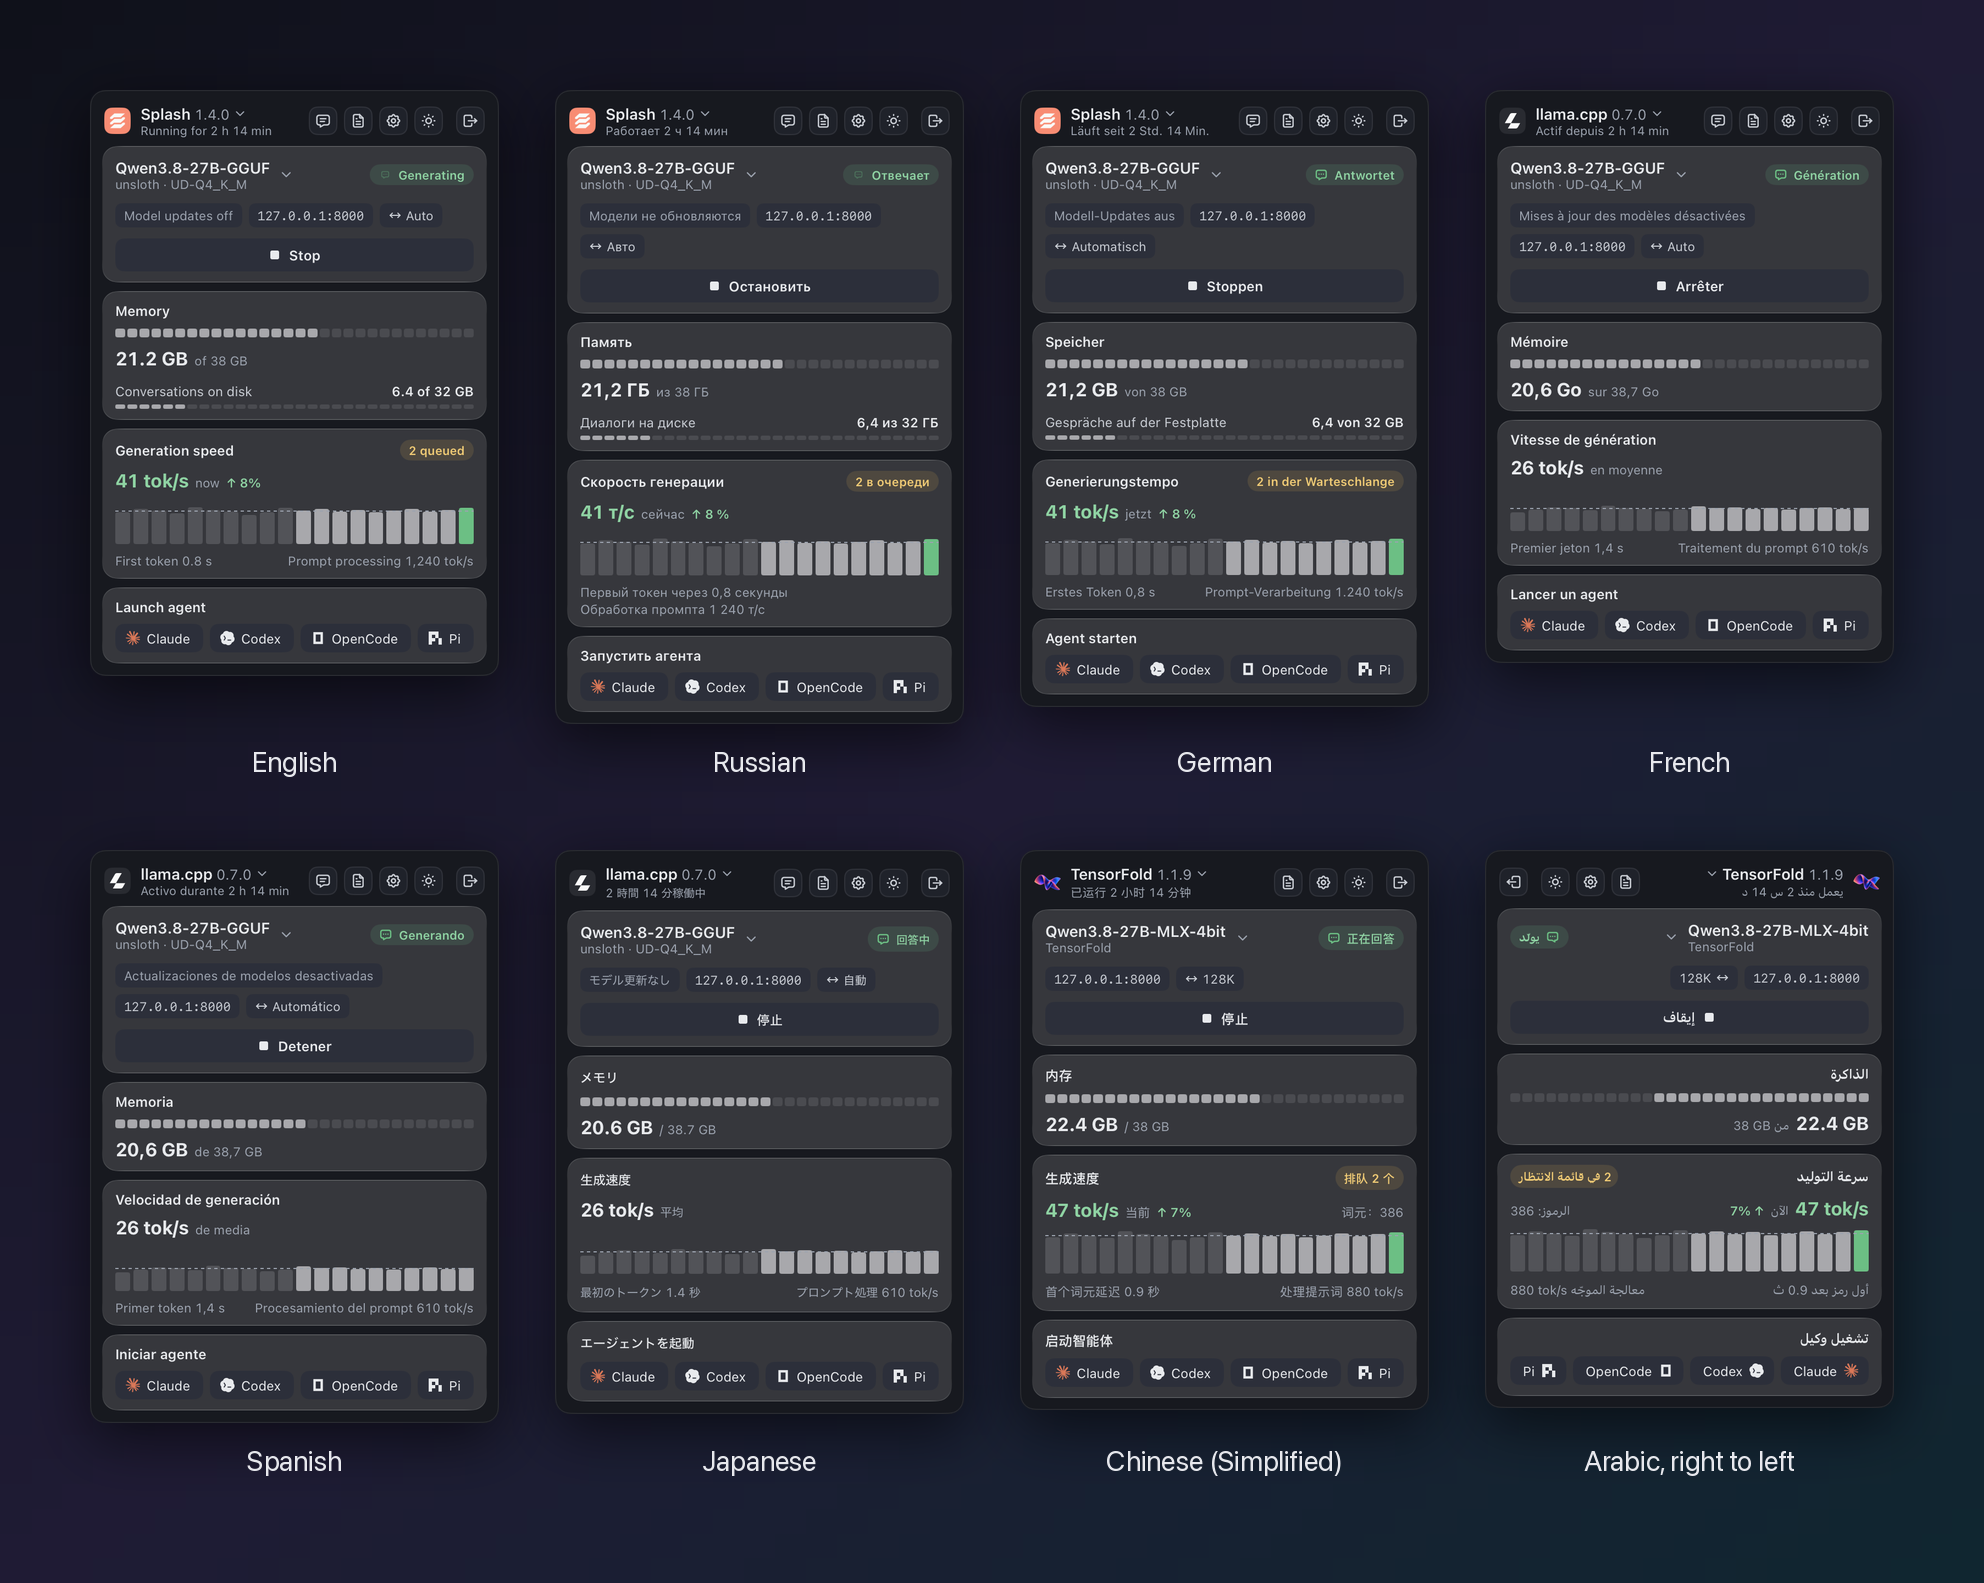
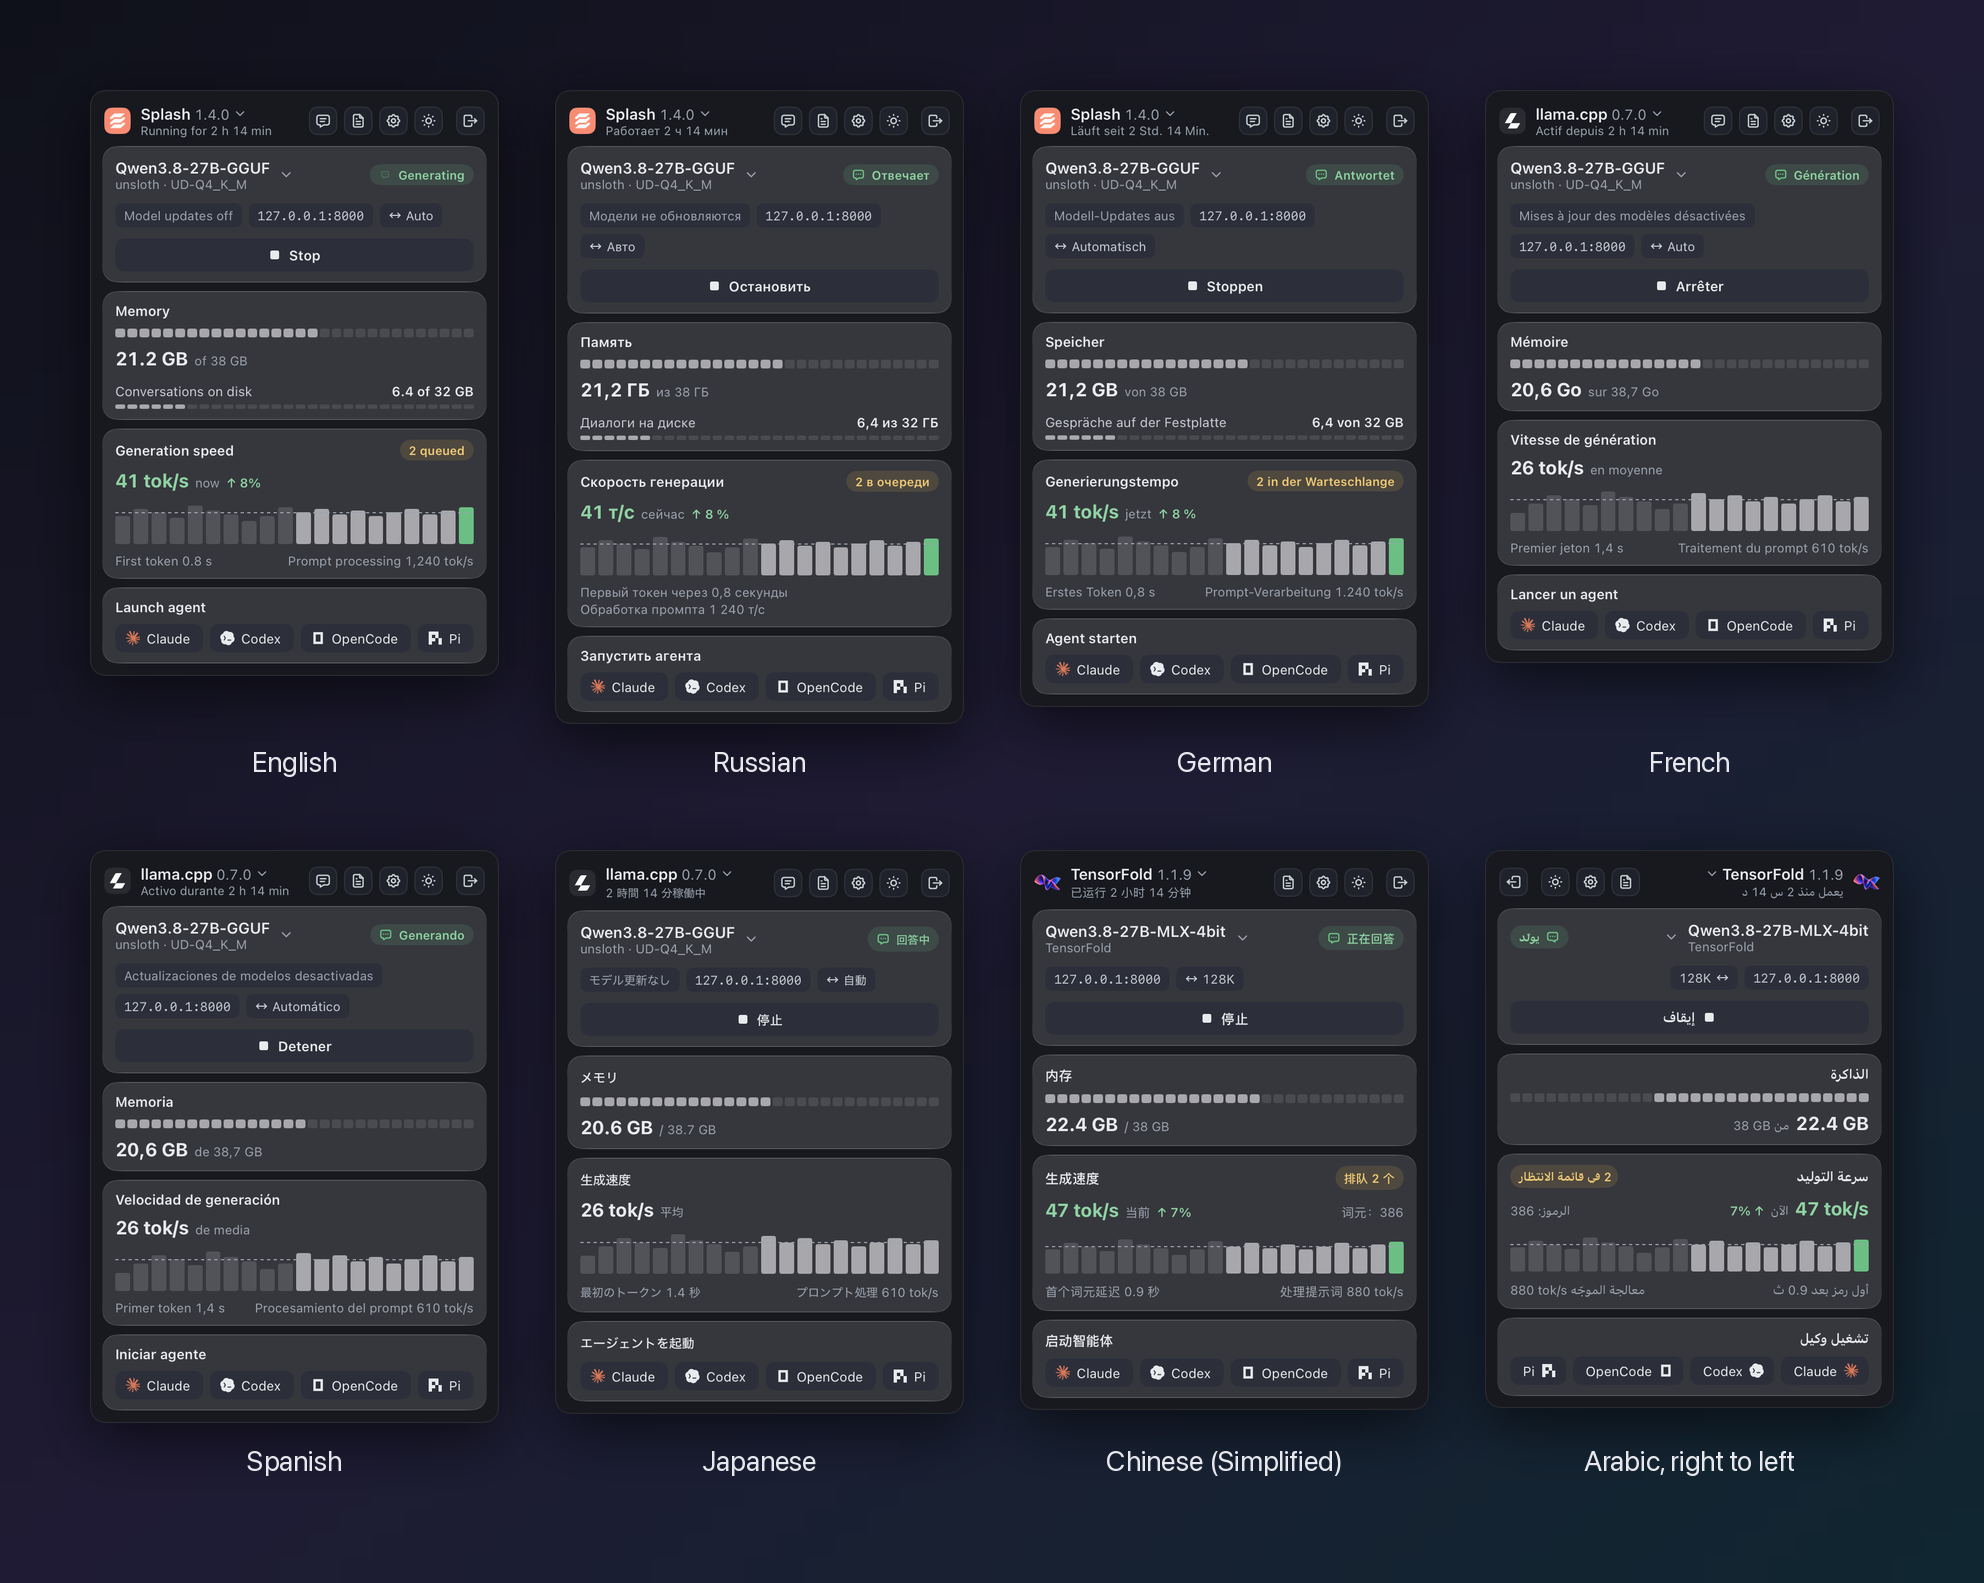
Speed chart: start below the slowest request
The chart ran from zero to at least 50 tok/s, so requests of 30 and
45 tok/s stood as bars of nearly one height. It now runs from below the
slowest bar to just above the fastest, in multiples of 5 tok/s and over
at least half the top speed, so close speeds differ at a glance and one
speed does not read as swings. Bars and the average line share the
range, which glides on the live speed's spring.

The 0.3.0 notes say how to update from 0.1.0: Homebrew skips casks with
auto_updates in a plain brew upgrade, so it needs --greedy. The README's
release section says the same. The demo and screenshots show the new
scale.

diff --git a/internal/panel/speed.go b/internal/panel/speed.go
@@ -190,17 +190,24 @@ func (p *Panel) tokenCount(c *ui.Context, f *frame, n int64, rate float64) int64
 	return int64(p.tokShown)
 }
 
-// chartTop is the speed the full chart height stands for: the mockup's 50
-// tok/s, raised in steps of 10 for faster engines.
-func chartTop(series []float64) float64 {
-	top := 0.0
+// chartRange is the speeds the chart's bottom and top stand for. The
+// chart starts below the slowest bar, not at zero, so that requests of
+// close speeds differ at a glance: of bars from 30 to 45 tok/s, the
+// slowest stands at a third of the height. The range spans at least half
+// the top speed, so that requests of about one speed do not read as wild
+// swings; both ends are multiples of 5 tok/s, so they hold still while
+// the bars change a little.
+func chartRange(series []float64) (lo, hi float64) {
+	if len(series) == 0 {
+		return 0, 50
+	}
+	lo, hi = series[0], series[0]
 	for _, x := range series {
-		top = max(top, x)
+		lo, hi = min(lo, x), max(hi, x)
 	}
-	if top <= 50 {
-		return 50
-	}
-	return math.Ceil(top*1.2/10) * 10
+	hi = max(5, math.Ceil(hi*1.05/5)*5)
+	lo = min(lo-(hi-lo)/2, hi/2)
+	return max(0, math.Floor(lo/5)*5), hi
 }
 
 // chart is the 20-bar speed chart, with a dashed line at avg (none when
@@ -208,9 +215,18 @@ func chartTop(series []float64) float64 {
 func (p *Panel) chart(c *ui.Context, f *frame, series []float64, current int, dim bool, avg float64, barText func(int) string) {
 	t, m := f.pal, f.m
 	n := len(series)
-	top := chartTop(series)
 	hover := -1
-	group := ui.Row(c).Direction(ui.LeftToRight).Height(40).Gap(3).AlignItems(ui.End).Role(ui.RoleGroup)
+	group := ui.Row(c).Key("speed-chart").Direction(ui.LeftToRight).Height(40).Gap(3).AlignItems(ui.End).Role(ui.RoleGroup)
+	// The range glides as the live bar does, so a new slowest or fastest
+	// request rescales the bars smoothly.
+	lo, hi := chartRange(series)
+	lo = float64(group.Spring("lo", float32(lo), liveSpring))
+	hi = float64(group.Spring("hi", float32(hi), liveSpring))
+	// height is how high the bar of speed x stands, from 2 DIP (seen)
+	// to the chart's 40.
+	height := func(x float64) float32 {
+		return min(40, max(2, float32(math.Round((x-lo)/(hi-lo)*100))/100*40))
+	}
 	if n > 0 {
 		lo, hi := series[0], series[0]
 		for _, x := range series {
@@ -220,7 +236,7 @@ func (p *Panel) chart(c *ui.Context, f *frame, series []float64, current int, di
 	}
 	if avg > 0 {
 		// Over the bars, so that each reads above or below the average.
-		ah := float32(math.Round(avg/top*100)) / 100 * 40
+		ah := height(avg)
 		line := t.muted
 		group.DrawOver(func(pt *ui.Painter, r ui.Rect) {
 			y := r.Y + r.H - ah
@@ -238,7 +254,7 @@ func (p *Panel) chart(c *ui.Context, f *frame, series []float64, current int, di
 			ui.Box(c).Key(-1 - i).Grow(1).Basis(0).Height(40)
 		}
 		for i, x := range series {
-			h := float32(math.Round(x/top*100)) / 100 * 40
+			h := height(x)
 			bg := t.barLo
 			if !dim && i >= n-10 {
 				bg = t.barHi
@@ -263,9 +279,6 @@ func (p *Panel) chart(c *ui.Context, f *frame, series []float64, current int, di
 				if i != current {
 					bg = t.strong
 				}
-			}
-			if i == current {
-				h = max(h, 2) // seen before the first speed comes
 			}
 			cell.Children(func() {
 				ui.Box(c).Height(max(h, 0)).Radius(2).Background(bg)

diff --git a/internal/panel/palette_test.go b/internal/panel/palette_test.go
@@ -44,3 +44,24 @@ func TestChartBarsContrast(t *testing.T) {
 		t.Error("the recent bars do not read darker than the older ones")
 	}
 }
+
+func TestChartRange(t *testing.T) {
+	for _, c := range []struct {
+		series []float64
+		lo, hi float64
+	}{
+		{nil, 0, 50},
+		// Close speeds: the slowest bar at a third of the height.
+		{[]float64{30, 36, 45, 41}, 20, 50},
+		// One speed: the range still spans half the top.
+		{[]float64{40}, 20, 45},
+		// Far apart: the chart starts at zero.
+		{[]float64{8, 90}, 0, 95},
+		// A request without a speed yet.
+		{[]float64{0}, 0, 5},
+	} {
+		if lo, hi := chartRange(c.series); lo != c.lo || hi != c.hi {
+			t.Errorf("chartRange(%v) = %v, %v; want %v, %v", c.series, lo, hi, c.lo, c.hi)
+		}
+	}
+}

diff --git a/CHANGELOG.md b/CHANGELOG.md
@@ -1,5 +1,11 @@
 # Changelog
 
+## Unreleased
+
+- The speed chart starts below the slowest request, not at zero, so
+  requests of close speeds differ at a glance. Its range glides when a new
+  request is the slowest or the fastest.
+
 ## 0.3.0
 
 The speed card shows the request in progress as it runs. This is the
@@ -22,6 +28,13 @@ first version that reaches you as an automatic update.
 
 Lumilo 0.2.0 downloads this version by itself within a day and offers to
 restart; Settings → Check for updates finds it at once.
+
+### Updating from 0.1.0
+
+Version 0.1.0 cannot update itself, and Homebrew skips apps that update
+themselves in a plain `brew upgrade`. Update it once with
+`brew upgrade --cask --greedy kotuke/tap/lumilo`, or download the disk
+image below.
 
 ## 0.2.0
 

diff --git a/README.md b/README.md
@@ -262,9 +262,9 @@ Lumilo's own updates.
 After the release, move the cask in
 [kotuke/homebrew-tap](https://github.com/kotuke/homebrew-tap) to the new
 version: `brew bump-cask-pr --version <version> kotuke/tap/lumilo` opens
-the pull request. The cask has `auto_updates true`, so `brew upgrade` leaves
-Lumilo to update itself; the cask of 0.2.0 goes without it, as 0.1.0 has no
-updater and only Homebrew can move it on. Keep a copy of the update key
+the pull request. The cask has `auto_updates true` from 0.3.0 on, so
+`brew upgrade` leaves Lumilo to update itself; 0.1.0 has no updater, and
+`brew upgrade --greedy` moves it on. Keep a copy of the update key
 (`~/.config/lumilo/update-keys/`) off this Mac: installed copies accept only
 updates signed with it.
 
